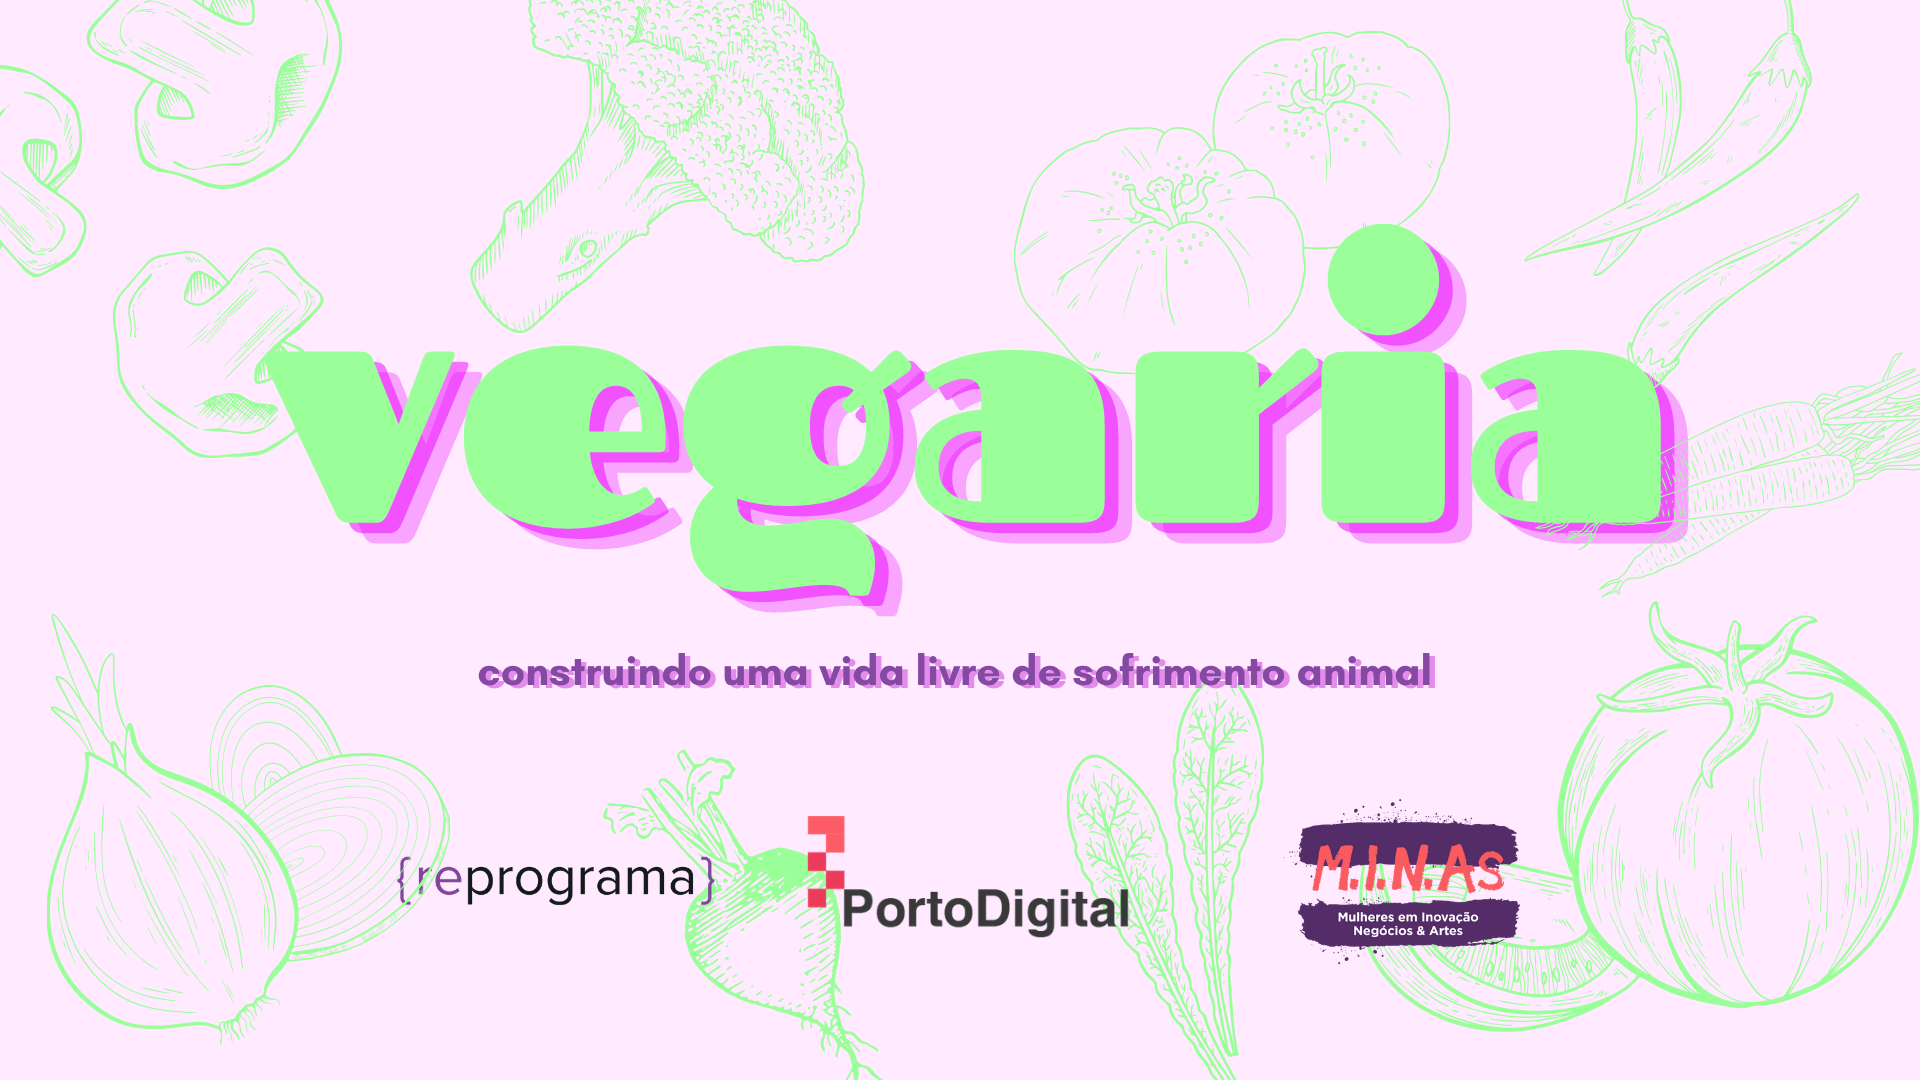
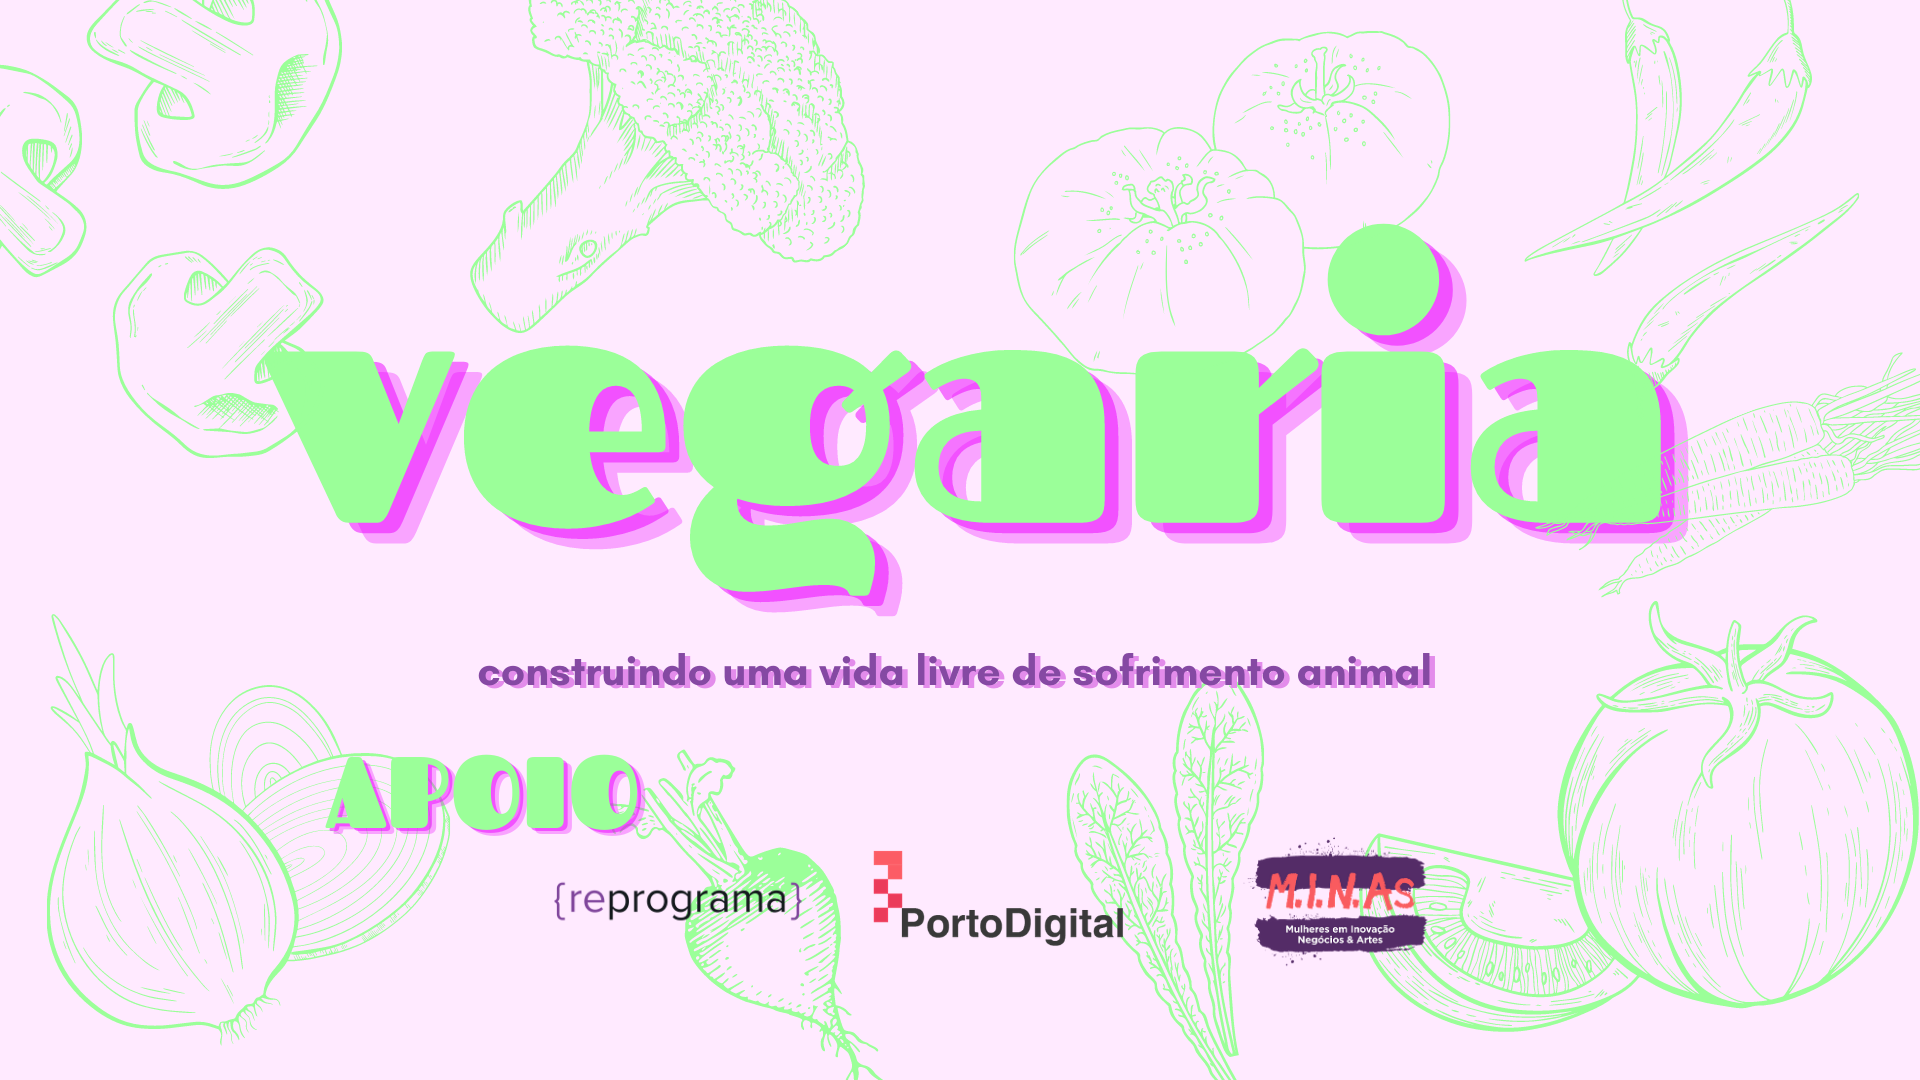
atualização readme

Changed region(s): [[0.1562, 0.7028, 0.5938, 0.8861], [0.6562, 0.7333, 0.8125, 0.8861]]

diff --git a/README.md b/README.md
@@ -208,7 +208,7 @@ Escolhi fazer isso através do uso do Atomic Design, iniciando o processo por el
  <sub><b>Marina Maré</b></sub></a> :ocean:
 
 
-Feito com :green_heart: por Marina Maré 👋🏽 Entre em contato!
+Feito com :green_heart: por Marina Maré com apoio da {reprograma} 👋🏽 Entre em contato!
 
 [![Twitter Badge](https://img.shields.io/badge/-@marinamare_-1ca0f1?style=flat-square&labelColor=1ca0f1&logo=twitter&logoColor=white&link=https://twitter.com/marinamare_)](https://twitter.com/marinamare_) [![Linkedin Badge](https://img.shields.io/badge/-Maré-blue?style=flat-square&logo=Linkedin&logoColor=white&link=https://www.linkedin.com/in/marina-freitas-moura/)](https://www.linkedin.com/in/marina-freitas-moura/) 
 [![Gmail Badge](https://img.shields.io/badge/-marinamaredesign@gmail.com-c14438?style=flat-square&logo=Gmail&logoColor=white&link=mailto:marinamaredesign@gmail.com)](marinamaredesign@gmail.com)
